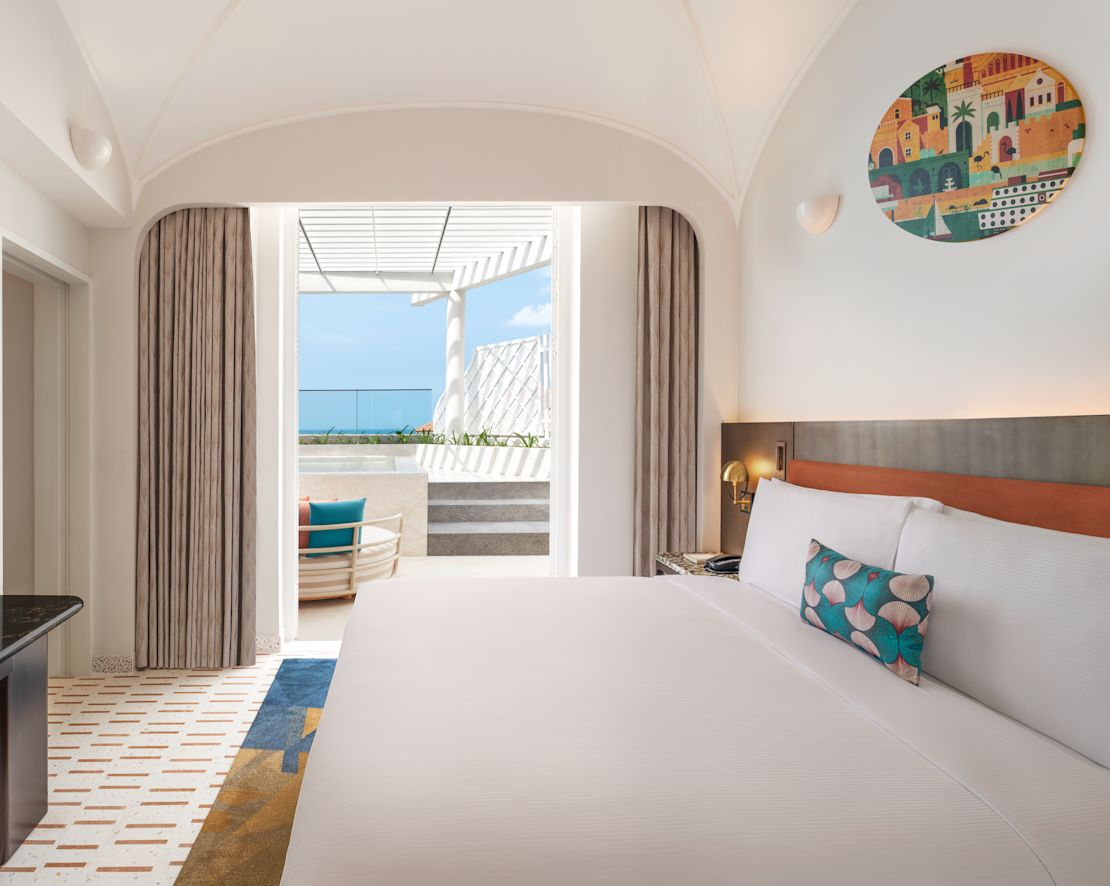
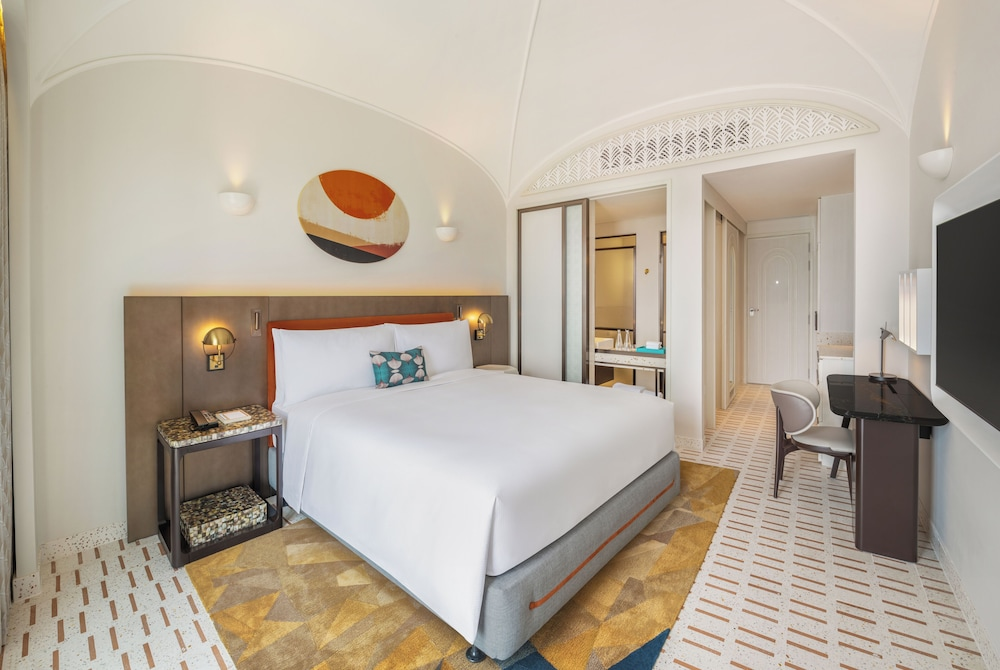
backlog P2 图片独立性收官：槟城万豪+富国岛La Festa domain-dup 回归修复（2/2）
- 酒店|槟城|Penang Marriott Hotel 槟城万豪：g1134 marriott.com 官网 photos 页外观图 →
  Buletin Mutiara 开业报道实拍（门口 MARRIOTT PENANG 标识牌+仰拍塔楼+喷泉，目验确认）
- 酒店|富国岛|La Festa Phu Quoc：g1207 hilton.com 官网客房图 →
  EaseMyTrip 酒店专页客房实拍（地中海拱形天花板+陶土色系大床房，目验确认）
- 两条目各 5 图/5 唯一 sourceUrl/5 独立域名程序校验通过；图片文件就地覆盖、
  import 不动；构建通过

diff --git a/client/src/guide/placeGalleries.ts b/client/src/guide/placeGalleries.ts
@@ -1357,14 +1357,14 @@ const galleries:Record<string,PlacePhoto[]>={
   "酒店|普吉|JW Marriott Phuket Resort & Spa 普吉JW万豪":[{src:g1131,sourceUrl:"https://www.marriott.com/en-us/hotels/hktjw-jw-marriott-phuket-resort-and-spa/rooms/",title:"普吉JW万豪 外观：度假村鸟瞰，蓝池+红伞+棕榈林"},{src:g1165,sourceUrl:"https://www.despegar.com.mx/hoteles/h-327870/jw-marriott-phuket-resort-spa-mai+khao",title:"普吉JW万豪 泳池：日落映照的泰式坡屋顶长廊+镜面泳池，海景尽头（2026-09-25 目验确认；Despegar 酒店专页）"},{src:g1166,sourceUrl:"https://www.directbooking.ro/booking-hotel-jw-marriott-phuket-resort-spa-phuket-reservation-offer-191852.aspx",title:"普吉JW万豪 泳池：蓝池+红伞航拍，与首图同视角互证（2026-09-25 目验确认；Direct Booking 预订页）"},{src:g1167,sourceUrl:"https://splashworld.net/jw-marriott-phuket-resort-and-spa-mai-khao/",title:"普吉JW万豪 客房：套房内景，大床+休憩区+阳台花园景（2026-09-25 目验确认；SplashWorld 客房测评）"},{src:g1168,sourceUrl:"https://vakantie.vx.nl/vakanties/thailand/regio-phuket/mai-khao-beach/jw-marriott-phuket-resort-and-spa--27746",title:"普吉JW万豪 沙滩：Mai Khao 海滩航拍，棕榈林+长条泻湖泳池（2026-09-25 目验确认；Vakantie.nl 酒店页）"}],
   "酒店|普吉|The Surin Phuket":[{src:g1132,sourceUrl:"https://www.thesurinphuket.com/",title:"The Surin Phuket 外观：海滩亭+无边泳池+沙滩"},{src:g1169,sourceUrl:"https://resize.prestigia.com/pics/3373/1200x630/6-w6690h4440x0y0-ff8264ce.jpg",title:"The Surin Phuket 泳池：镜面无边泳池倒映棕榈+沙滩亭，海平线尽头（2026-09-25 目验确认；Prestigia 酒店专页）"},{src:g1170,sourceUrl:"https://maddysavenue.com/wp-content/uploads/2015/08/94-1024x683.jpg",title:"The Surin Phuket 泳池暮色：傍晚灯光亮起的泳池平台，白伞躺椅+棕榈剪影（2026-09-25 目验确认；MaddysAvenue 入住实拍测评）"},{src:g1171,sourceUrl:"https://cdn.phuket.net/bucket/directory/media/2006/01/1894-001.jpg",title:"The Surin Phuket 餐厅：日落时分的海滩餐厅，草坪摆台面朝大海（2026-09-25 目验确认；Phuket.net 餐厅档案）"},{src:g1172,sourceUrl:"https://media.oovatu.com/43-800/the-surin-phuket_95666.jpg",title:"The Surin Phuket 沙滩：白天海滩草坪餐厅区，棕榈林+远处海角（2026-09-25 目验确认；Oovatu 酒店页）"}],
   "酒店|普吉|Keemala":[{src:g1133,sourceUrl:"https://www.keemala.com/ja/",title:"Keemala 外观：雨林瀑布泳池与树屋别墅"},{src:g1173,sourceUrl:"https://wanderon-images.gumlet.io/blogs/new/2025/01/23/keemala-resort-bird-nest-pool-villa.jpg",title:"Keemala：鸟巢泳池别墅（雨林树冠视角，暮色）"},{src:g1174,sourceUrl:"https://images.scottdunn.com/c_fill,f_auto,q_auto,h_900,w_1350/thailand/accommodation/keemala/8759871992025.jpg",title:"Keemala：鸟巢泳池别墅（暮色雨林全景）"},{src:g1175,sourceUrl:"https://image.urlaubspiraten.de/720/image/upload/v1618388051/Impressions%20and%20Other%20Assets/239913836_fkpzky.jpg",title:"Keemala：鸟巢泳池别墅（日间雨林视角）"},{src:g1176,sourceUrl:"https://cms.brightsun.co.uk/rw-images/Holiday/HotelImages/08-02-2019-12-07Keemala-Phuket-07.jpg",title:"Keemala：帐篷泳池别墅（暮色帐篷顶）"}],
-  "酒店|槟城|Penang Marriott Hotel 槟城万豪":[{src:g1134,sourceUrl:"https://www.marriott.com/en-gb/hotels/penmc-penang-marriott-hotel/photos/",title:"槟城万豪 外观：海滨高楼日落全景，楼顶 MARRIOTT 红色标识"},{src:g1177,sourceUrl:"https://www.businesstoday.com.my/wp-content/uploads/2025/11/Penang-Mariott-pool-1024x683.jpg",title:"槟城万豪 泳池平台：木质躺椅一排、无边泳池、后方 Gurney 海岸高层塔楼与海景"},{src:g1178,sourceUrl:"https://dwp.com/wp-content/uploads/2024/06/PENMC_Kucina_1_sm-1024x682.jpg",title:"槟城万豪 Kucina 餐厅内景：青绿座椅+草编吊顶+拼砖地板+开放式后厨（设计公司 DWP 专题实拍）"},{src:g1179,sourceUrl:"https://images.trvl-media.com/lodging/102000000/101570000/101564300/101564233/b0c08160.jpg?impolicy=fcrop&w=1200&h=800",title:"槟城万豪 客房：大床+青色床头板+落地窗外乔治市高楼与山景"},{src:g1180,sourceUrl:"https://cache.marriott.com/is/image/marriotts7prod/mc-penmc-great-room-26873-86309:Classic-Hor?wid=1336&fit=constrain",title:"槟城万豪 大堂 Great Room：环形沙发休息区+挑高落地窗+独立灯柱（万豪官方图库）"}],
+  "酒店|槟城|Penang Marriott Hotel 槟城万豪":[{src:g1134,sourceUrl:"https://www.buletinmutiara.com/five-star-penang-marriott-hotel-opens/",title:"槟城万豪 外观：仰拍塔楼+门口 MARRIOTT PENANG 标识牌与喷泉（Buletin Mutiara 开业报道实拍，目验确认）"},{src:g1177,sourceUrl:"https://www.businesstoday.com.my/wp-content/uploads/2025/11/Penang-Mariott-pool-1024x683.jpg",title:"槟城万豪 泳池平台：木质躺椅一排、无边泳池、后方 Gurney 海岸高层塔楼与海景"},{src:g1178,sourceUrl:"https://dwp.com/wp-content/uploads/2024/06/PENMC_Kucina_1_sm-1024x682.jpg",title:"槟城万豪 Kucina 餐厅内景：青绿座椅+草编吊顶+拼砖地板+开放式后厨（设计公司 DWP 专题实拍）"},{src:g1179,sourceUrl:"https://images.trvl-media.com/lodging/102000000/101570000/101564300/101564233/b0c08160.jpg?impolicy=fcrop&w=1200&h=800",title:"槟城万豪 客房：大床+青色床头板+落地窗外乔治市高楼与山景"},{src:g1180,sourceUrl:"https://cache.marriott.com/is/image/marriotts7prod/mc-penmc-great-room-26873-86309:Classic-Hor?wid=1336&fit=constrain",title:"槟城万豪 大堂 Great Room：环形沙发休息区+挑高落地窗+独立灯柱（万豪官方图库）"}],
   "酒店|槟城|Seven Terraces":[{src:g1135,sourceUrl:"https://www.klook.com/en-SG/hotels/detail/101406-seven-terraces-hotel/",title:"Seven Terraces 外观：乔治市修复骑楼老屋街景，白墙木百叶"},{src:g1181,sourceUrl:"https://pix8.agoda.net/hotelImages/401181/0/d1bf9097f1e683611b96cae50a9b687c.jpeg?ce=0&s=1024x768",title:"Seven Terraces 中庭：两排修复骑楼走廊+香蕉叶庭院，暮色灯光（2026-09-25 目验确认；agoda 酒店图库）"},{src:g1182,sourceUrl:"https://img.easemytrip.com/EMTHOTEL-2208719/8/g/l/440326_53.jpg",title:"Seven Terraces 会客厅：娘惹风大理石圆桌+红绒座椅（2026-09-25 目验确认；EaseMyTrip 酒店专页）"},{src:g1183,sourceUrl:"https://seventerraceshotel.hotelspenang365.com/data/Pics/1080x700w/12775/1277533/1277533225/seven-terraces-george-town-pic-3.JPEG",title:"Seven Terraces 套房：四柱床+皮质沙发+红绒扶手椅，木质楼梯（2026-09-25 目验确认；hotelspenang365 酒店页）"},{src:g1184,sourceUrl:"https://www.georgetownheritage.com/wp-content/uploads/2024/12/1-seven-terraces-c-1024x712.jpeg",title:"Seven Terraces 客房：雕花四柱床+红绒座椅，落地玻璃门通露台（2026-09-25 目验确认；georgetownheritage.com 实拍）"}],
   "酒店|槟城|The Edison George Town":[{src:g1136,sourceUrl:"https://www.klook.com/en-MY/hotels/detail/283510-small-luxury-hotels-of-the-world--the-edison-george-town/",title:"The Edison 外观：白色殖民风格洋楼配绿百叶窗，门前喷泉"},{src:g1185,sourceUrl:"https://www.tablethotels.com/zh/george-town-hotels/the-edison-george-town",title:"The Edison 入口门廊：「THE EDISON GEORGE TOWN PENANG」铭牌+绿百叶雕花窗+盆栽（目验确认）"},{src:g1186,sourceUrl:"https://www.whatahotel.com/hotels/4282/the-edison-george-town.html",title:"The Edison 前台：青花瓷屏风+深绿房门+黄漆中式椅（目验确认）"},{src:g1187,sourceUrl:"https://gempak.com/rojakdaily/lifestyle/these-8-malaysian-hotels-are-most-wanted-accommodations-world-62203",title:"The Edison 白日外观：白色殖民洋楼+金字「THE EDISON GEORGE TOWN, PENANG」铭牌（rojakdaily 实拍，目验确认）"},{src:g1188,sourceUrl:"https://theedisonhotels.com/rooms.html",title:"The Edison 客房：四柱木雕屏风床头+开放式盥洗区（官网图，目验确认）"}],
   "酒店|吉隆坡|Four Seasons Hotel Kuala Lumpur":[{src:g1137,sourceUrl:"https://www.dotproperty.id/en/blog/tallest-buildings-in-malaysia/amp",title:"吉隆坡四季酒店 外观：玻璃幕墙高楼仰拍，裙楼 FOUR SEASONS 标识"},{src:g1189,sourceUrl:"https://www.intriqjourney.com/wp-content/uploads/2021/05/Four-Seasons-Kuala-Lumpur-Premier-Park-View-Room.jpg",title:"吉隆坡四季 客房：Premier Park View 大床房+落地窗城市景观（intriqjourney 实拍，目验确认）"},{src:g1190,sourceUrl:"https://myweekendplan.asia/top-8-best-luxury-staycations-in-klang-valley-2022/",title:"吉隆坡四季 泳池：夜景泳池甲板+暖光休息亭，玻璃塔楼环绕（目验确认）"},{src:g1191,sourceUrl:"https://www.limetravel.se/destinationer/asien/malaysia/four-seasons-kuala-lumpur/",title:"吉隆坡四季 餐饮：餐厅内景+落地窗城市高楼摆台（目验确认）"},{src:g1192,sourceUrl:"https://www.opentable.hk/r/the-lounge-four-seasons-hotel-kuala-lumpur",title:"吉隆坡四季 The Lounge：绿椅圆桌休息区+兰花摆饰（opentable，目验确认）"}],
   "酒店|吉隆坡|EQ":[{src:g1138,sourceUrl:"https://halalbooking.com/de/eq-kuala-lumpur/p/510544",title:"吉隆坡 EQ 外观：日落下 EQ 大楼全景，远处双子塔"},{src:g1193,sourceUrl:"https://www.agoda.com/en-ie/equatorial_2/hotel/kuala-lumpur-my.html",title:"吉隆坡 EQ 外观：暮色下 EQ 大楼特写+楼顶 EQ 铭牌，双子塔为伴（agoda，目验确认）"},{src:g1194,sourceUrl:"https://my.trip.com/hotels/kuala-lumpur-hotel-detail-23510995/eq-kuala-lumpur/",title:"吉隆坡 EQ 屋顶 Sabayon 酒吧：玻璃悬挑露台远眺双子塔夜景（trip.com，目验确认）"},{src:g1195,sourceUrl:"https://kompastour.com/pl/pol/country/malaysia/kuala-lumpur/eq_kuala_lumpur/",title:"吉隆坡 EQ 客房：Deluxe King 大床房+落地窗吉隆坡塔景观（kompastour，目验确认）"},{src:g1196,sourceUrl:"https://thecitylist.my/blog/sunday-buffet-at-nipah-eq-kuala-lumpur-is-simply-delicious",title:"吉隆坡 EQ Nipah 餐厅内景：热带植物+藤编吊顶围坐餐桌（thecitylist，目验确认）"}],
   "酒店|胡志明市|Mai House Saigon":[{src:g1139,sourceUrl:"https://vietadvisor.travel/es/revision-de-ubicaciones/alojamiento-en-ho-chi-minh",title:"Mai House Saigon 入口：酒店招牌与白色楼体、棕榈"},{src:g1197,sourceUrl:"https://maihouse.com.vn/",title:"Mai House Saigon 大堂：落地窗+藤编高背椅+大理石地面休息区（官网，目验确认）"},{src:g1198,sourceUrl:"https://www.dvacaciones.com/es/mai-house-saigon-hotel_h_1922302.html",title:"Mai House Saigon 中庭：挑高拱廊+水晶吊灯+大理石地面（dvacaciones/hotelbeds 图库，目验确认）"},{src:g1199,sourceUrl:"https://touristjourney.com/hotels/mai-house-resort-ho-chi-minh-city/",title:"Mai House Saigon 客房：大床+开放式大理石浴室+越南风挂画（touristjourney，目验确认）"},{src:g1200,sourceUrl:"https://www.thomascook.com/holidays/vietnam/ho-chi-minh-city/mai-house-saigon-hotel-2508631/",title:"Mai House Saigon 屋顶泳池：绿躺椅+黑白几何围墙（thomascook，目验确认）"}],
   "酒店|胡志明市|Hôtel des Arts Saigon":[{src:g1140,sourceUrl:"https://mia.vn/cam-nang-du-lich/khach-san-hotel-des-arts-saigon-16368",title:"Hôtel des Arts Saigon 外观：暮色中的白色高楼全景"},{src:g1201,sourceUrl:"https://swifttravel.com/wp-content/uploads/2025/09/0919-AJS-NOI-Hotel-des-Arts-SGN-3232-Web.jpg",title:"Hôtel des Arts Saigon 大堂吧台：雕花木质吧台+暖色吊灯+后方三角钢琴（swifttravel，目验确认）"},{src:g1202,sourceUrl:"https://www.luxurylink.com/images/sho_6802a972/2580107_819-945/image-2580107_819.jpg",title:"Hôtel des Arts Saigon 屋顶无边泳池：弧形卡座+城景天际线（luxurylink，目验确认）"},{src:g1203,sourceUrl:"https://aw-d.tripcdn.com/images/1mc5612000don6lyyF4D8_R_960_660_R5_D.jpg",title:"Hôtel des Arts Saigon 客房：大床+法式印支风吊灯+落地窗城市景观（trip.com 图库，目验确认）"},{src:g1204,sourceUrl:"https://viettrek.com/wp-content/uploads/2025/04/123Saigon-Kitchen-1.jpg",title:"Hôtel des Arts Saigon Saigon Kitchen 餐厅：蜂窝吊顶+斗笠摆饰+自助餐台（viettrek，目验确认）"}],
-  "酒店|富国岛|La Festa Phu Quoc, Curio Collection by Hilton":[{src:g1141,sourceUrl:"https://golfandlife.com.vn/la-festa-phu-quoc-curio-collection-by-hilton-ra-mat-phan-khu-moi-day-cam-hung-nghe-thuat-tai-thi-tran-hoang-hon/",title:"富国岛 La Festa 外观：黄昏下的地中海风白色酒店楼"},{src:g1205,sourceUrl:"https://stories.hilton.com/media-library/la-festa-phu-quoc-curio-collection-by-hilton-exterior",title:"La Festa 全景：Sunset Town 地中海风彩色建筑群+海滩+泳池露台（Hilton 官方媒体库，目验确认）"},{src:g1206,sourceUrl:"https://lafesta.com.vn/kham-pha-ve-dep-cua-kien-truc-dia-trung-hai-tai-la-festa-phu-quoc/",title:"La Festa 大堂：拱廊+中央棕榈树挑高中庭（酒店越南官网，目验确认）"},{src:g1207,sourceUrl:"https://www.hilton.com/en/hotels/pqcpqqq-la-festa-phu-quoc/rooms/",title:"La Festa 客房：Capri Terrace Suite 卧室+海景露台（hilton.com 官网图库，目验确认）"},{src:g1208,sourceUrl:"https://www.sunphuquocairways.com/th/vi/explore/elevate-experience/la-festa-phu-quoc-curio-collection-by-hilton",title:"La Festa 无边泳池：黄白条纹伞+远眺接吻桥（Sun Group 官方媒体，目验确认）"}],
+  "酒店|富国岛|La Festa Phu Quoc, Curio Collection by Hilton":[{src:g1141,sourceUrl:"https://golfandlife.com.vn/la-festa-phu-quoc-curio-collection-by-hilton-ra-mat-phan-khu-moi-day-cam-hung-nghe-thuat-tai-thi-tran-hoang-hon/",title:"富国岛 La Festa 外观：黄昏下的地中海风白色酒店楼"},{src:g1205,sourceUrl:"https://stories.hilton.com/media-library/la-festa-phu-quoc-curio-collection-by-hilton-exterior",title:"La Festa 全景：Sunset Town 地中海风彩色建筑群+海滩+泳池露台（Hilton 官方媒体库，目验确认）"},{src:g1206,sourceUrl:"https://lafesta.com.vn/kham-pha-ve-dep-cua-kien-truc-dia-trung-hai-tai-la-festa-phu-quoc/",title:"La Festa 大堂：拱廊+中央棕榈树挑高中庭（酒店越南官网，目验确认）"},{src:g1207,sourceUrl:"https://www.easemytrip.ae/hotels/la-festa-phu-quoc-curio-collection-by-hilton-7179718/",title:"La Festa 客房：地中海拱形天花板+陶土色系大床房（EaseMyTrip 酒店专页实拍，目验确认）"},{src:g1208,sourceUrl:"https://www.sunphuquocairways.com/th/vi/explore/elevate-experience/la-festa-phu-quoc-curio-collection-by-hilton",title:"La Festa 无边泳池：黄白条纹伞+远眺接吻桥（Sun Group 官方媒体，目验确认）"}],
   "酒店|富国岛|InterContinental Phu Quoc 洲际":[{src:g1142,sourceUrl:"https://www.ForbesTravelGuide.com/hotels/vietnam-vietnam/intercontinental-phu-quoc-long-beach-resort",title:"富国岛洲际 外观：中央塔楼+棕榈+泻湖的度假村全景"},{src:g1209,sourceUrl:"https://phuquoc.intercontinental.com/resort-collection/",title:"富国岛洲际 客房：Junior Suite Ocean View 海景套房大床+休憩区+海景露台（酒店官网图库，目验确认）"},{src:g1210,sourceUrl:"https://a21tours.com/cn/attractions/intercontinetal_phu_quoc",title:"富国岛洲际 大堂酒廊：落地玻璃窗俯瞰中庭水景泳池+棕榈+长滩海景（目验确认）"},{src:g1211,sourceUrl:"https://www.travelandleisureasia.com/sea/hotels/southeast-asia-hotels/experience-the-magic-of-a-festive-season-by-the-sea-at-intercontinental-phu-quoc-long-beach-resort/",title:"富国岛洲际 入口大堂：墙面 INTERCONTINENTAL PHU QUOC LONG BEACH RESORT 铭牌+藤编吊灯（目验确认）"},{src:g1212,sourceUrl:"https://vietnamgolfmagazine.net/vi/top-swimming",title:"富国岛洲际 泳池：泻湖式蜿蜒泳池航拍+棕榈+莲蓬形泳池吧亭+长滩海景（目验确认）"}],
   "酒店|富国岛|Fusion Resort Phu Quoc":[{src:g1143,sourceUrl:"https://cafebiz.vn/trai-nghiem-mua-he-tai-fusion-resort-phu-quoc-20190515172059348.chn",title:"富国岛 Fusion 海滩别墅：私人泳池+茅草屋顶+椰林海滩"},{src:g1213,sourceUrl:"https://fusionhotelgroup.com/our-brands2/",title:"Fusion 集团官方页：度假村鸟瞰，茅草别墅群+各户私人泳池+临河近海"},{src:g1214,sourceUrl:"https://vietnamresorts.com/resort/fusion-resort-phu-quoc-all-spa-inclusive",title:"沙滩别墅：私人泳池+茅草屋顶+吊床庭院"},{src:g1215,sourceUrl:"https://saigoneer.com/sponsored-listings/243-resorts/17568-fusion-resort-phu-quoc-fosters-",title:"度假村鸟瞰：中央泳池+茅草别墅群+椰林+背后海滩"},{src:g1216,sourceUrl:"https://www.vietnambooking.com/combo/combo-3n2d-fusion-resort-phu-quoc-5-sao-voucher-",title:"餐厅内景：茅草高顶自助餐厅+摆台"}],
   "酒店|新加坡|Mandarin Oriental Singapore 文华东方":[{src:g1144,sourceUrl:"https://www.5wzayefi.com/",title:"新加坡文华东方 外观：滨海湾楼体全景+楼顶 MANDARIN ORIENTAL 大字夜景"},{src:g1217,sourceUrl:"https://heartpatrick.com/mandarin_oriental_hotel_singapore.html",title:"新加坡文华东方 大堂：翻新后大堂休息区，金属艺术吊灯+亚洲佛像雕塑+环形沙发"},{src:g1218,sourceUrl:"https://travelandleisure-es.com/destinos/asia/mandarin-oriental-singapore-el-renacer-de-un-icono-frente-a-marina-bay/",title:"新加坡文华东方 泳池：棕榈泳池甲板+白伞躺椅，远眺新加坡中央商务区天际线"},{src:g1219,sourceUrl:"https://luxuryescapes.com/inspiration/mandarin-oriental-singapore-review/",title:"新加坡文华东方 客房：Marina Bay View 大床房，蓝色床头板+落地窗城市景观"},{src:g1220,sourceUrl:"https://www.centurion-magazine.com/travel/travel/sponsored-mandarin-oriental-hidden-city-beyond-the-extraordinary-experiences",title:"新加坡文华东方 餐饮：樱桃园餐厅中式圆桌摆台+竹林庭院（2026 米其林一星）"}],
